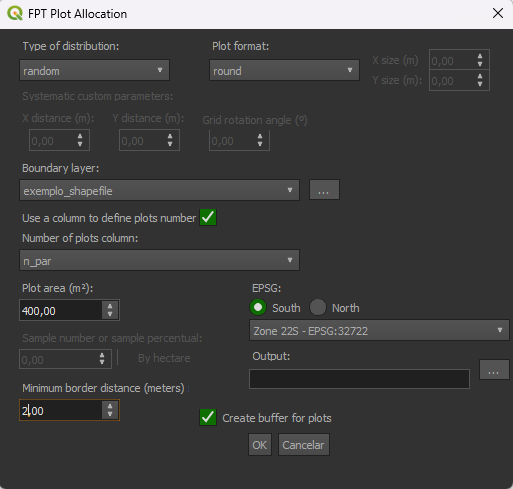
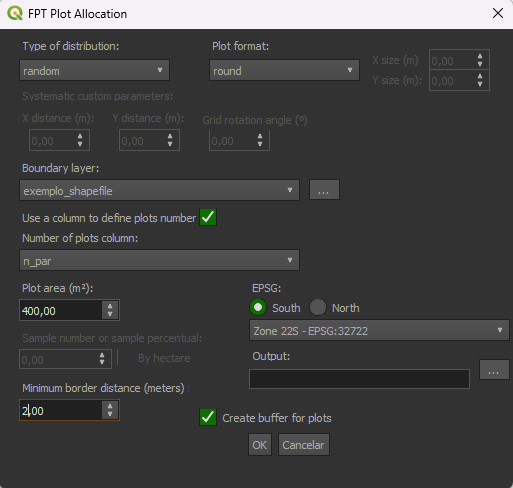
a

diff --git a/pt-BR/plot_allocation_qgis/index.html b/pt-BR/plot_allocation_qgis/index.html
@@ -1058,7 +1058,7 @@
 <figure style="display: inline-block; text-align: center;">
   <figcaption>Esta é a interface do plugin. Abaixo, você aprenderá como configurar e alocar suas parcelas.</figcaption>
   <img src="../../images/plot_allocation_qgis/plugin_interface.png" alt="Interface do Plugin" 
-       style="width: 513px; height: 489px; border-radius: 10px; box-shadow: 0px 4px 10px rgba(0, 0, 0, 0.2);">
+       style="width: 513px; height: 488px; border-radius: 10px; box-shadow: 0px 4px 10px rgba(0, 0, 0, 0.2);">
 </figure>
 
 <h2 id="funcionalidades-do-plugin">Funcionalidades do Plugin</h2>

diff --git a/plot_allocation_qgis/index.html b/plot_allocation_qgis/index.html
@@ -1057,7 +1057,7 @@
 <figure style="display: inline-block; text-align: center;">
   <figcaption>This is the plugin interface. Below, you will learn how to configure and allocate your plots.</figcaption>
   <img src="../images/plot_allocation_qgis/plugin_interface.png" alt="Plugin interface" 
-       style="width: 513px; height: 489px; border-radius: 10px; box-shadow: 0px 4px 10px rgba(0, 0, 0, 0.2);">
+       style="width: 513px; height: 488px; border-radius: 10px; box-shadow: 0px 4px 10px rgba(0, 0, 0, 0.2);">
 </figure>
 
 <h2 id="plugin-basics">Plugin Basics</h2>
